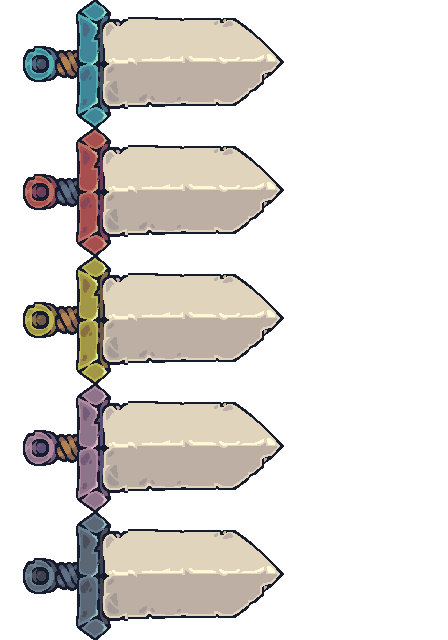
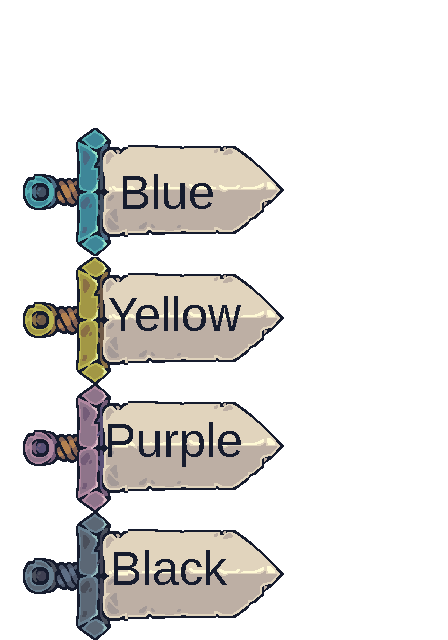
Prepare choosing a color

diff --git a/spacetimedb/src/lib.rs b/spacetimedb/src/lib.rs
@@ -1,5 +1,5 @@
 use log::info;
-use spacetimedb::{Identity, JwtClaims, ReducerContext, Table, Timestamp, ViewContext};
+use spacetimedb::{Identity, JwtClaims, ReducerContext, SpacetimeType, Table, Timestamp, ViewContext};
 use serde::{Deserialize, Serialize};
 
 #[spacetimedb::table(name = user, public)]
@@ -7,10 +7,24 @@ pub struct User {
     #[primary_key]
     identity: Identity,
     name: Option<String>,
-    email: Option<String>,
     online: bool,
 }
 
+#[spacetimedb::table(name = player, public)]
+pub struct Player {
+    #[primary_key]
+    identity: Identity,
+    name: String,
+    color: Color,
+}
+
+#[derive(SpacetimeType)]
+pub enum Color {
+    Blue,
+    Yellow,
+    Purple,
+    Black
+}
 #[spacetimedb::table(name = message, public)]
 pub struct Message {
     sender: Identity,
@@ -130,7 +144,6 @@ pub fn identity_connected(ctx: &ReducerContext) {
             online: true,
             // Keep existing data if already set, otherwise use JWT data
             name: user.name.or(name),
-            email: user.email.or(email),
             ..user
         });
     } else {
@@ -138,7 +151,6 @@ pub fn identity_connected(ctx: &ReducerContext) {
         ctx.db.user().insert(User {
             identity: ctx.sender,
             name,
-            email,
             online: true,
         });
     }
